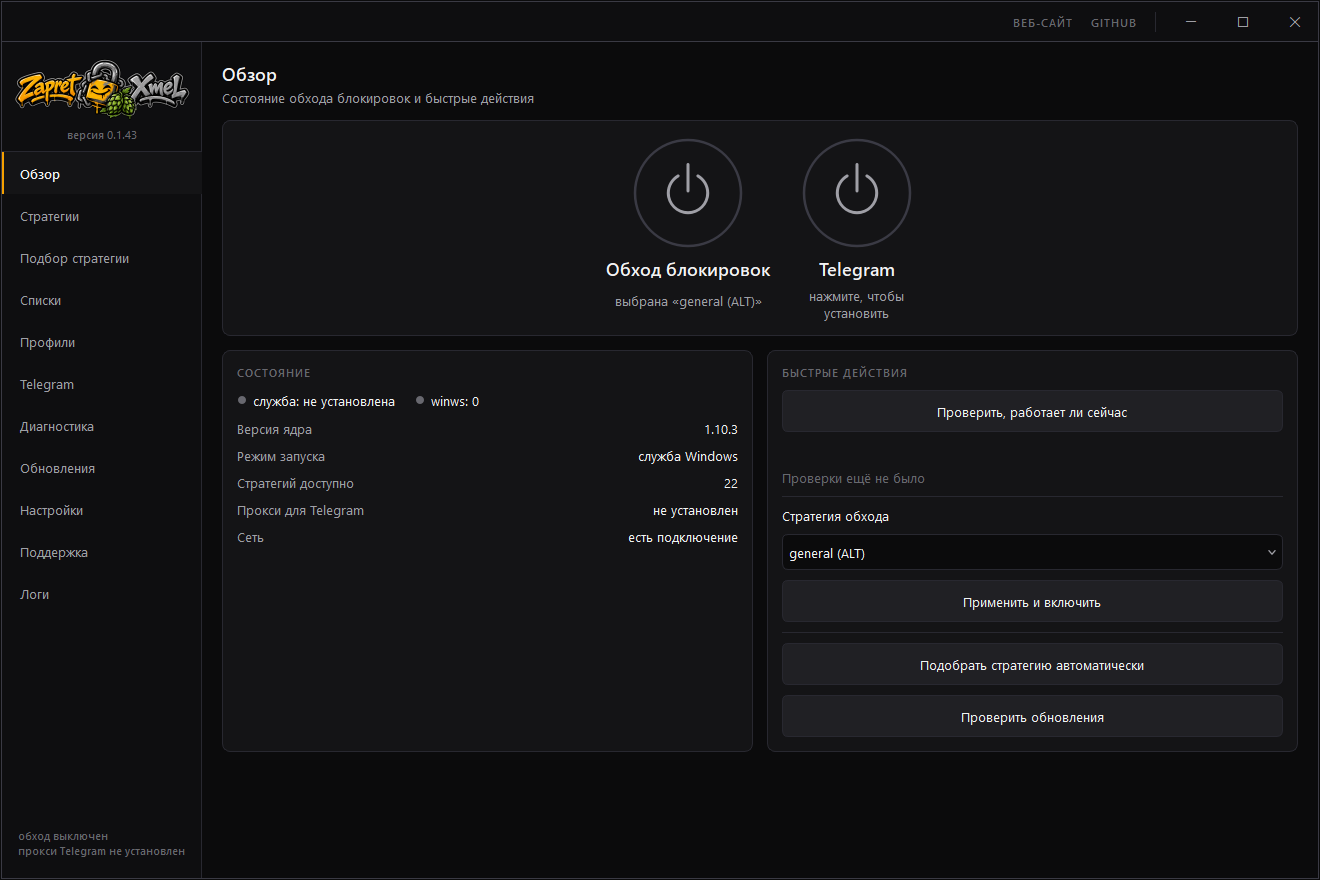
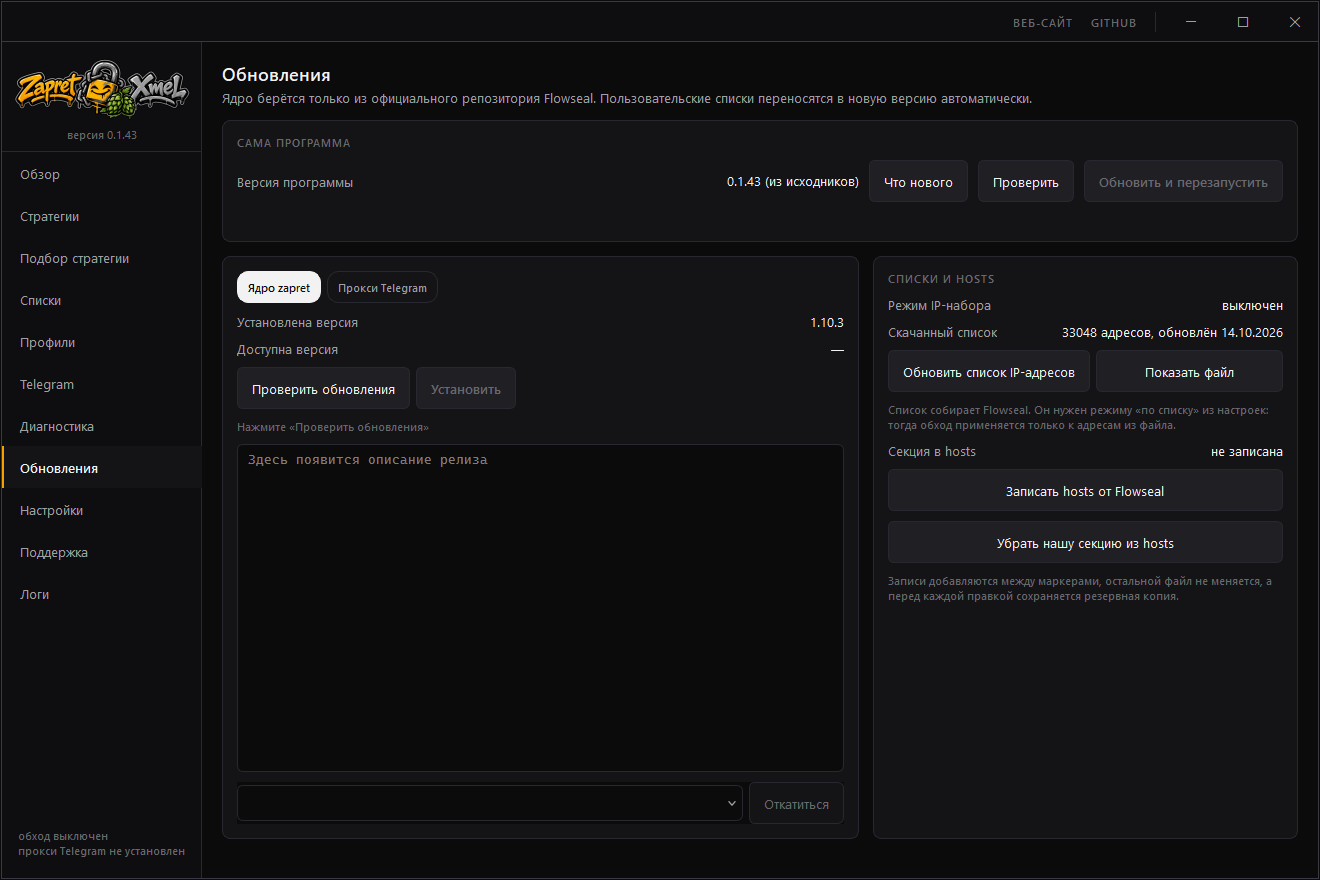
Projects: neutral ZapretXmel entry, drop the project site link
The project site is being closed. The entry now describes the tool technically, and the
screenshot shows the updates screen instead of the main switches.

diff --git a/i18n.js b/i18n.js
@@ -19,12 +19,11 @@ window.I18N = {
   "projects_h": "Открытые проекты",
   "projects_note": "Здесь только то, что лежит в открытом доступе. Основная работа, платформа для hh.ru, закрыта, о ней ниже в разделе «Опыт».",
   "photo_alt": "Егор Холкин, портрет",
-  "zx_p": "Программа для Windows, которая возвращает YouTube, Discord и Telegram, когда их режет провайдер. Сама ставит и обновляет zapret, подбирает рабочую стратегию и показывает, где именно рвётся соединение.",
+  "zx_p": "Графическая оболочка для Windows над утилитой zapret, на Python и PyQt6. Ставит и обновляет компоненты, подбирает конфигурацию перебором с замером и показывает, на каком уровне рвётся соединение.",
   "zx_k1": "Версия",
   "zx_k2": "Звёзды на GitHub",
   "zx_k3": "Стек",
-  "zx_site": "Сайт проекта",
-  "zx_alt": "Главный экран ZapretXmel: кнопки включения обхода и прокси для Telegram, состояние службы и быстрые действия",
+  "zx_alt": "Экран обновлений ZapretXmel: версии компонентов, откат, списки и файл hosts",
   "ao_p": "Отдаёт объёмную работу ИИ-агента бесплатным моделям OpenCode. Основной агент, будь то Claude или Codex, ставит задачу и получает короткий вердикт, поэтому дорогие токены уходят на решения, а не на набор текста.",
   "ao_k1": "Статус",
   "ao_alt": "Баннер agent-offload: терминал с результатом делегированной задачи, проверка пройдена",
@@ -81,12 +80,11 @@ window.I18N = {
   "projects_h": "Open-source projects",
   "projects_note": "Only public repositories here. My main work, a platform for hh.ru, is private; more on it under Experience below.",
   "photo_alt": "Egor Holkin, portrait",
-  "zx_p": "A Windows app that brings YouTube, Discord and Telegram back when the ISP throttles them. It installs and updates zapret on its own, finds a strategy that works and shows exactly where a connection breaks.",
+  "zx_p": "A Windows GUI for the zapret utility, built with Python and PyQt6. It installs and updates its components, picks a configuration by measured trial and shows at which layer a connection breaks.",
   "zx_k1": "Version",
   "zx_k2": "GitHub stars",
   "zx_k3": "Stack",
-  "zx_site": "Project site",
-  "zx_alt": "ZapretXmel main screen: switches for the bypass and the Telegram proxy, service status and quick actions",
+  "zx_alt": "ZapretXmel updates screen: component versions, rollback, lists and the hosts file",
   "ao_p": "Hands an AI agent’s bulk work to OpenCode’s free models. The main agent, Claude, Codex or any other, sets the task and gets back a short verdict, so expensive tokens go to decisions rather than typing.",
   "ao_k1": "Status",
   "ao_alt": "agent-offload banner: a terminal showing a delegated task with the check passed",

diff --git a/index.html b/index.html
@@ -24,7 +24,7 @@
 <link rel="preconnect" href="https://fonts.googleapis.com">
 <link rel="preconnect" href="https://fonts.gstatic.com" crossorigin>
 <link href="https://fonts.googleapis.com/css2?family=Libre+Bodoni:wght@400..700&family=Playfair+Display:wght@400..700&family=Onest:wght@400..600&display=swap" rel="stylesheet">
-<link rel="stylesheet" href="style.css?v=1793664129608">
+<link rel="stylesheet" href="style.css?v=1793664129609">
 <script>document.documentElement.classList.add('js')</script>
 </head>
 <body class="layout-stacked">
@@ -69,19 +69,18 @@
   <article class="proj proj-zx rv">
     <div class="proj-text">
       <h3 class="proj-h">ZapretXmel</h3>
-      <p data-i18n="zx_p" class="proj-p">Программа для Windows, которая возвращает YouTube, Discord и Telegram, когда их режет провайдер. Сама ставит и обновляет zapret, подбирает рабочую стратегию и показывает, где именно рвётся соединение.</p>
+      <p data-i18n="zx_p" class="proj-p">Графическая оболочка для Windows над утилитой zapret, на Python и PyQt6. Ставит и обновляет компоненты, подбирает конфигурацию перебором с замером и показывает, на каком уровне рвётся соединение.</p>
       <dl class="facts">
         <div><dt data-i18n="zx_k1">Версия</dt><dd class="num" data-gh-version="ZapretXmel">0.1.57</dd></div>
         <div><dt data-i18n="zx_k2">Звёзды на GitHub</dt><dd class="num" data-gh-stars="ZapretXmel">9</dd></div>
         <div><dt data-i18n="zx_k3">Стек</dt><dd>Python, PyQt6</dd></div>
       </dl>
       <div class="proj-links">
-        <a class="btn btn-sm" href="https://igorxmel.github.io/ZapretXmel/" target="_blank" rel="noopener" data-i18n="zx_site">Сайт проекта</a>
-        <a class="btn btn-sm btn-quiet" href="https://github.com/igorxmel/ZapretXmel" target="_blank" rel="noopener">GitHub</a>
+        <a class="btn btn-sm" href="https://github.com/igorxmel/ZapretXmel" target="_blank" rel="noopener">GitHub</a>
       </div>
     </div>
     <figure class="proj-media">
-      <img src="assets/zapretxmel-app.png" width="1320" height="880" data-i18n-alt="zx_alt" alt="Главный экран ZapretXmel: кнопки включения обхода и прокси для Telegram, состояние службы и быстрые действия">
+      <img src="assets/zapretxmel-app.png" width="1320" height="880" data-i18n-alt="zx_alt" alt="Экран обновлений ZapretXmel: версии компонентов, откат, списки и файл hosts">
     </figure>
   </article>
 
@@ -192,7 +191,7 @@
     <span data-i18n="footer_city">Ростов-на-Дону</span>
   </div>
 </footer></div>
-<script src="i18n.js?v=1793664129608"></script>
-<script src="site.js?v=1793664129608"></script>
+<script src="i18n.js?v=1793664129609"></script>
+<script src="site.js?v=1793664129609"></script>
 </body>
 </html>
